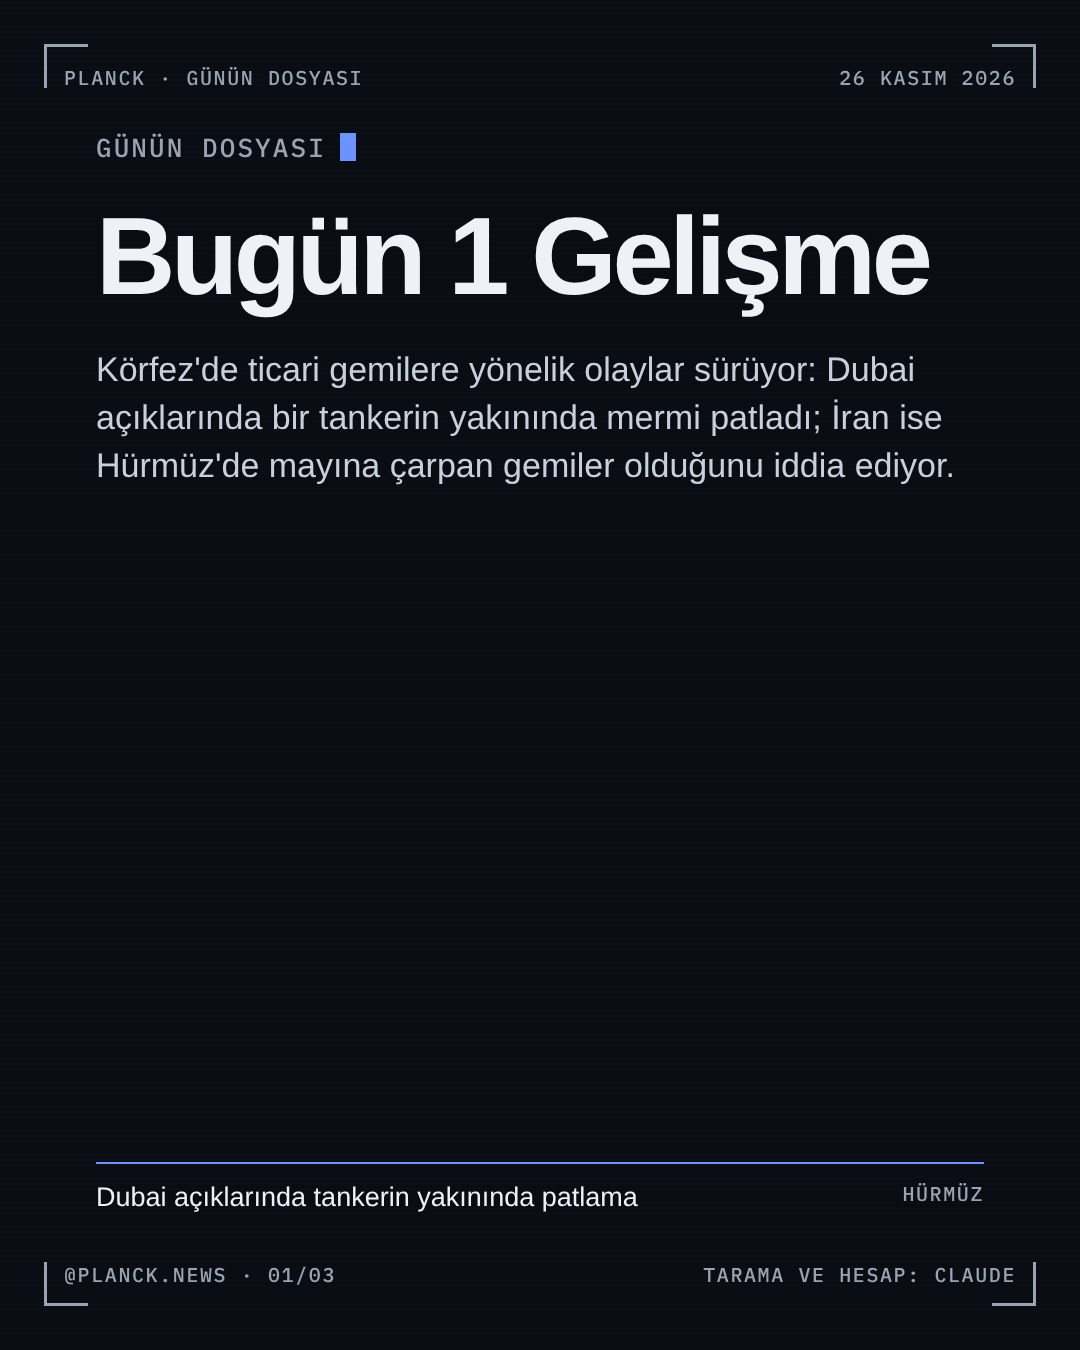
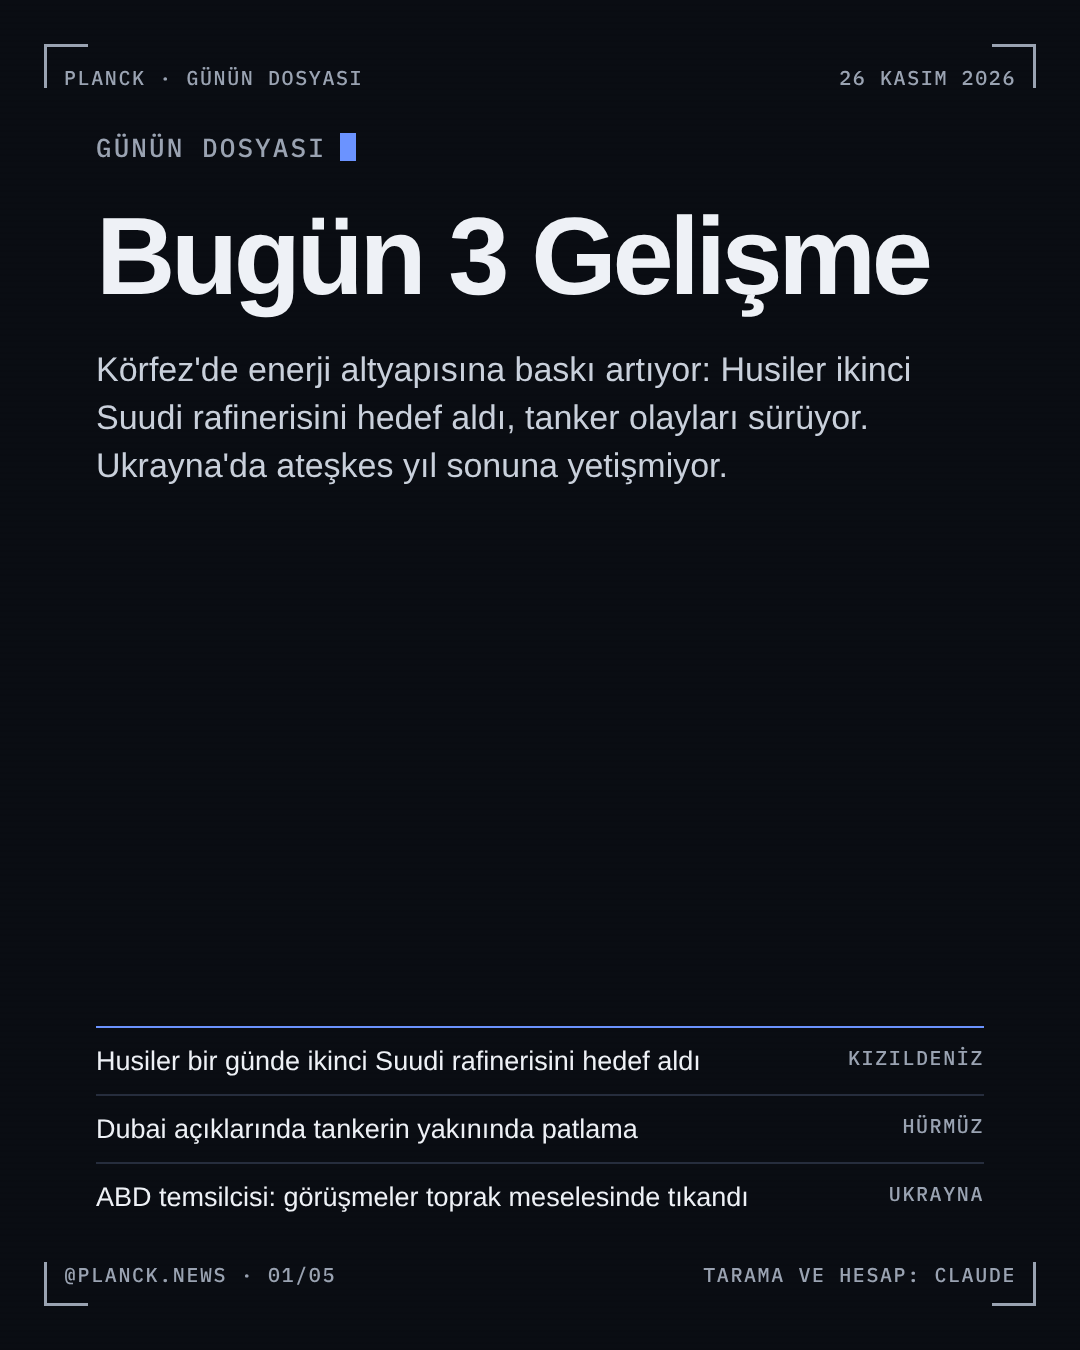
Akşam Günün Dosyası 2026-11-26: 3 madde (Cizan rafinerisi, Hürmüz, Kushner); sicil 4 güncelleme
Claude-Session: https://claude.ai/code/session_01QCGPWM7VG54TRHmAri5s88

diff --git a/hikayeler/INDEX.md b/hikayeler/INDEX.md
@@ -15,9 +15,9 @@ Her haber bir hikâyeye bağlanır; yoksa yeni hikâye açılır (TARAMA §0a). 
 | [İklim: COP31 Antalya ve küresel müzakereler](iklim-cop31/HIKAYE.md) | iklim | 0 açık / 0 | 2 | 2026-11-23 |
 | [Nvidia: Huang'ın ayrılışı ve dönüşü](nvidia-huang/HIKAYE.md) | şirketler | 5 açık / 8 | 3 | 2026-11-23 |
 | [Otonom silahlar için uluslararası kural süreci](otonom-silahlar/HIKAYE.md) | teknoloji | 0 açık / 0 | 1 | 2026-11-23 |
-| [Petrol fiyatı ve Türkiye'de akaryakıt](petrol-akaryakit/HIKAYE.md) | enerji | 8 açık / 8 | 4 | 2026-11-25 |
+| [Petrol fiyatı ve Türkiye'de akaryakıt](petrol-akaryakit/HIKAYE.md) | enerji | 8 açık / 8 | 4 | 2026-11-26 |
 | [Rusya–NATO deniz ve hava sınırı gerilimi (Baltık, Polonya, Akdeniz)](rusya-nato-deniz/HIKAYE.md) | jeopolitik | 0 açık / 0 | 2 | 2026-11-25 |
-| [Rusya–Ukrayna savaşı ve ateşkes arayışı](rusya-ukrayna/HIKAYE.md) | jeopolitik | 3 açık / 3 | 4 | 2026-11-25 |
+| [Rusya–Ukrayna savaşı ve ateşkes arayışı](rusya-ukrayna/HIKAYE.md) | jeopolitik | 3 açık / 3 | 4 | 2026-11-26 |
 | [Salgınlar ve küresel sağlık (kızamık, kuş gribi, DSÖ)](salgin-saglik/HIKAYE.md) | sağlık | 1 açık / 1 | 0 | 2026-11-23 |
 | [Kritik altyapıya siber saldırılar ve devlet atıfları](siber-saldirilar/HIKAYE.md) | teknoloji | 4 açık / 4 | 2 | 2026-11-25 |
 | [Türkiye ekonomisi: enflasyon, faiz, ücret, enerji tarifeleri](turkiye-ekonomi/HIKAYE.md) | türkiye ekonomisi | 12 açık / 12 | 1 | 2026-11-26 |

diff --git a/hikayeler/abd-iran-savasi/HIKAYE.md b/hikayeler/abd-iran-savasi/HIKAYE.md
@@ -29,6 +29,7 @@ ABD ile İran arasındaki savaş Nisan 2026 ateşkesine rağmen düşük yoğunl
 | 23–24.11.2026 | ABD Hazinesi / İran | OFAC İran gölge bankacılık ağına 22 kuruluş, 8 kişi yaptırımı; Galibaf 7 şart karşılanmadan görüşme yok dedi; İran 3 tankerin Hürmüz'de mayına çarptığını iddia etti (bağımsız teyit yok) | tırmanma | yaptırım bedelli, şartlar bedelsiz | düşük | Gulf News, Fox, Reuters/Internazionale |
 | 2026-11-26 | UKMTO | Dubai'nin 50 deniz mili batısında bir tankerin yakınında kimliği belirsiz mermi patladı; hasar ve yaralı yok | tırmanma | bedelsiz | zayıf | AA, Times of Israel (Reuters) |
 | 2026-11-25 | İran (IRGC, ordu) | iki tankerin ve bir LNG gemisinin mayına çarptığını iddia etti; Reuters doğrulayamadı | tırmanma | bedelsiz (iddia) | zayıf | Arab News (Reuters), OilPrice (IRNA) |
+| 2026-11-26 | Husiler / Suudi koalisyonu | Ras Tanura'dan bir gün sonra Aramco Cizan rafinerisine saldırı; koalisyon Hudeyde'de fırlatma rampasını vurduğunu açıkladı | tırmanma | bedelli (askerî) | orta | jpost.com/middle-east/article-916252, arabnews.pk/...-3008163 |
 
 ## Denge
 Olumsuz sinyaller ağır basıyor: iki taraf da sahada bedelli adımlar atıyor (saldırılar), olumlu sinyaller yalnız sözlü (10 Kasım 'savaş bitti' beyanı). Ateşkes sorusu 18→15'e indi; bu yön Ocak'a kadar değişmez görünüyor, ta ki arabulucudan tarih gelene kadar.

diff --git a/hikayeler/petrol-akaryakit/HIKAYE.md b/hikayeler/petrol-akaryakit/HIKAYE.md
@@ -25,6 +25,7 @@ Brent, Orta Doğu ihracatının toparlanmasıyla Kasım'da üç hafta üst üste
 | 25.11.2026 | Dağıtıcılar / piyasa | Motorine 26.11 gece yarısı −4,32 TL (haftada ikinci indirim, toplam ≈10,90 TL); İstanbul Avrupa ≈84,58 TL. 1 Ara ÖTV 9→12 TL (≈+3,60), 1 Oca 13,90 TL | aşağı (pompa), yukarı (vergi) | bedelli (fiyat listesi) | yüksek | ANKA/Kısa Dalga, Enerji Günlüğü, Demokrat Gündem, Sözcü |
 | 25.11.2026 | Petrol piyasası | Brent ≈87,5 $ (23.11 kapanışı 31 Ağustos'tan beri en düşük); Libya Şarara hattı yeniden açıldı, Orta Doğu ihracatı arttı; 29 Kasım OPEC+ toplantısı | aşağı | bedelli (fiyat) | yüksek | CNBC, Reuters |
 | 26.11 | Suudi koalisyonu / Husiler | Riyad'a 2 balistik füze ve Doğu Eyaleti'nde 2 İHA düşürüldü; hasar yok. Ras Tanura iddiası teyitsiz (izleme) | arz riski ↑ (zayıf) | bedelli (fiilî saldırı) | zayıf | AA, Al Arabiya |
+| 2026-11-26 | Husiler | Suudi rafinerilerine art arda iki saldırı (Ras Tanura 25.11, Cizan 26.11), hasar açıklanmadı; Brent ≈94 $ | yukarı | bedelli | orta | kuwaittimes.com/article/54416, jpost.com/middle-east/article-916252 |
 
 ## Denge
 Kısa vadede aşağı yönlü (arz toparlanıyor) ama vergi takvimi pompa fiyatını yukarı itiyor; Türkiye için belirleyici olan Brent'ten çok ÖTV ve kur.
